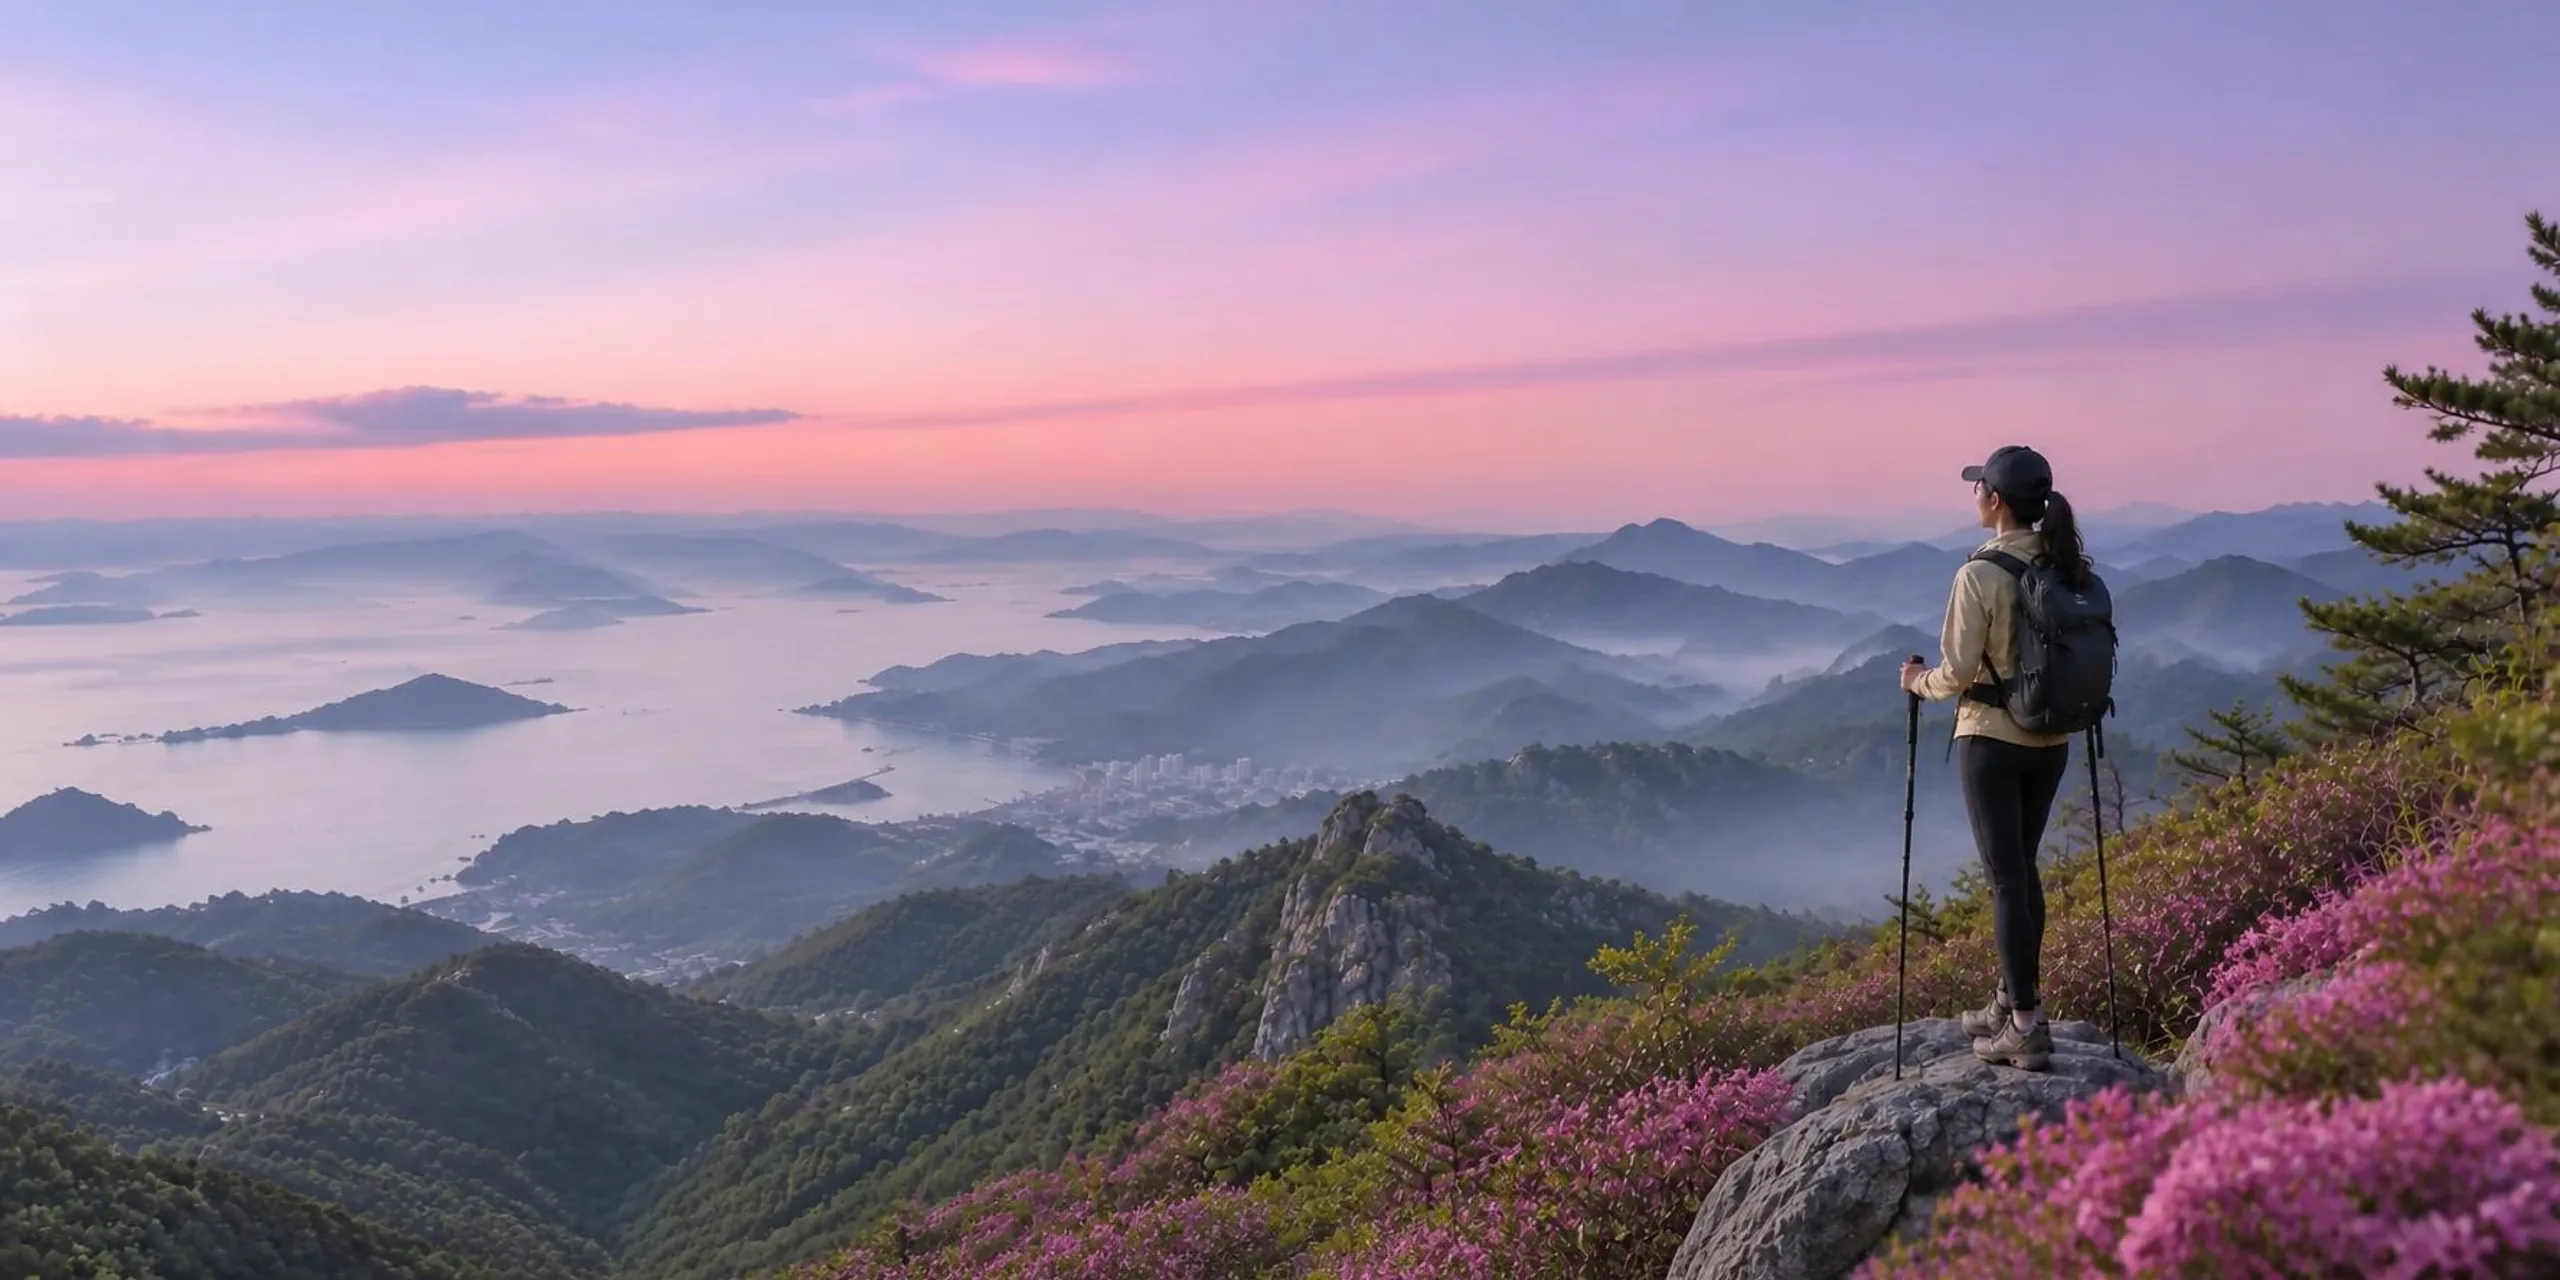
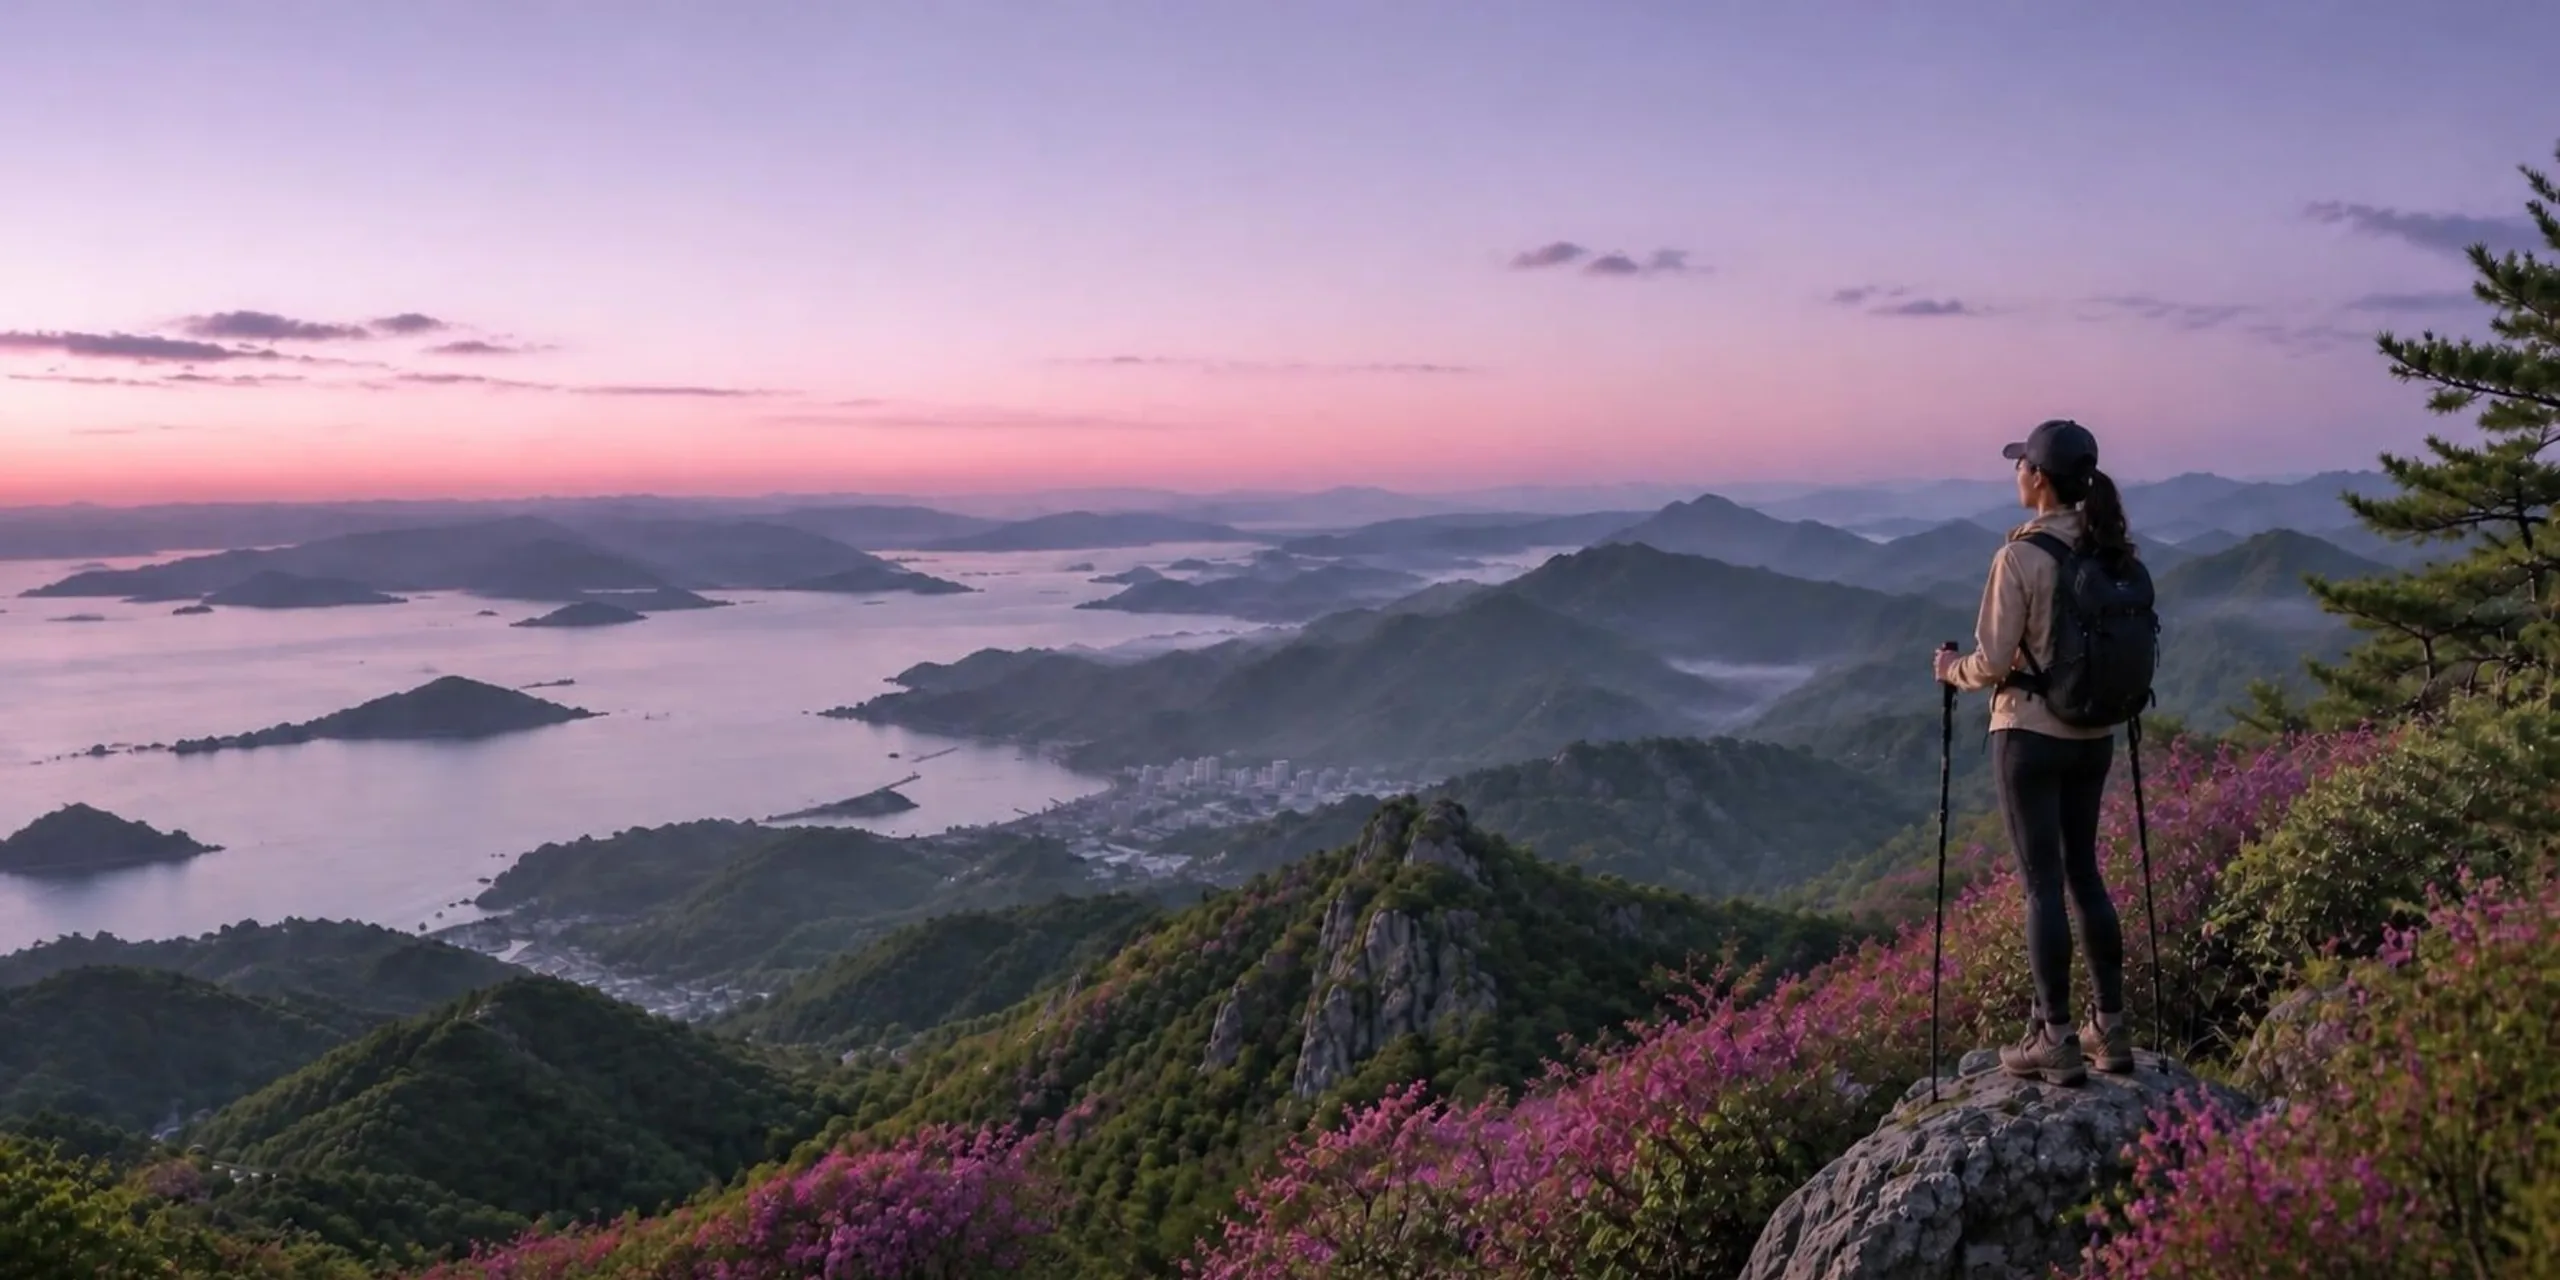
히어로 봄 새벽 v6 적용 (#28)
Claude-Session: https://claude.ai/code/session_01TTPn3ts8fEyWREDupZmwxM

diff --git a/_src.html b/_src.html
@@ -13,7 +13,7 @@
 (function(){var k="";try{var d=new Date(),M=d.getMonth()+1,h=d.getHours();
 var s=M>=3&&M<=5?"spring":M>=6&&M<=8?"summer":M>=9&&M<=11?"autumn":"winter";
 var t=h>=4&&h<7?"dawn":h>=7&&h<17?"day":h>=17&&h<21?"evening":"night";k=s+"-"+t;
-var READY={};/* 검수 재진행 중: 전 조합 원본 히어로 표시 *//* 검수 통과분만 노출, 나머지는 원본 히어로 */
+var READY={"spring-dawn":1};/* 검수 재진행 중: 전 조합 원본 히어로 표시 *//* 검수 통과분만 노출, 나머지는 원본 히어로 */
 window.__heroReady=READY;if(!READY[k])k="";
 var q=/[?&]hero=((?:spring|summer|autumn|winter)-(?:dawn|day|evening|night))(?:&|$)/.exec(location.search);if(q&&READY[q[1]])k=q[1];}catch(e){k="";}
 window.__hero=k;var a=k?"/img/hero/"+k:"/img/hero",b=k?"/img/hero/"+k+"-m.webp":"/img/hero-m.webp";
@@ -333,7 +333,7 @@ footer{background:var(--dark);color:rgba(255,255,255,.5);border-top:1px solid rg
       <img class="bg" id="heroImg" width="2560" height="1280" alt="산 정상 바위에 서서 다도해와 겹겹의 산줄기를 바라보는 등산객" fetchpriority="high" />
     </picture>
     <script>(function(){var k=window.__hero,i=document.getElementById("heroImg"),s=document.getElementById("heroSrc"),w=document.getElementById("bgwrap");
-var C={"spring-dawn":["#bba1c1","#625963"],"spring-day":["#b2d5ee","#7e8071"],"spring-evening":["#d7a16f","#704d2b"],"spring-night":["#11253b","#0e1217"],"summer-dawn":["#dcbba1","#5f5642"],"summer-day":["#75abe1","#3a5f55"],"summer-evening":["#c78665","#594429"],"summer-night":["#0f2951","#0c1826"],"autumn-dawn":["#9482ba","#5c4159"],"autumn-day":["#81b5db","#6b5e5b"],"autumn-evening":["#c69164","#693821"],"autumn-night":["#1b293a","#17151a"],"winter-dawn":["#a8acce","#475986"],"winter-day":["#afcfee","#77879c"],"winter-evening":["#8d7575","#4e3f4f"],"winter-night":["#182742","#1c273d"]};function fb(){s.srcset="/img/hero-m.webp";i.src="/img/hero.webp";w.style.backgroundImage="";}
+var C={"spring-dawn":["#ac97b4","#4c4448"],"spring-day":["#b2d5ee","#7e8071"],"spring-evening":["#d7a16f","#704d2b"],"spring-night":["#11253b","#0e1217"],"summer-dawn":["#dcbba1","#5f5642"],"summer-day":["#75abe1","#3a5f55"],"summer-evening":["#c78665","#594429"],"summer-night":["#0f2951","#0c1826"],"autumn-dawn":["#9482ba","#5c4159"],"autumn-day":["#81b5db","#6b5e5b"],"autumn-evening":["#c69164","#693821"],"autumn-night":["#1b293a","#17151a"],"winter-dawn":["#a8acce","#475986"],"winter-day":["#afcfee","#77879c"],"winter-evening":["#8d7575","#4e3f4f"],"winter-night":["#182742","#1c273d"]};function fb(){s.srcset="/img/hero-m.webp";i.src="/img/hero.webp";w.style.backgroundImage="";}
 if(!k){fb();return;}i.addEventListener("error",function(){if(!i.getAttribute("data-fb")){i.setAttribute("data-fb","1");fb();}});
 if(C[k])w.style.backgroundImage="linear-gradient(180deg,"+C[k][0]+","+C[k][1]+")";
 s.srcset="/img/hero/"+k+"-m.webp";i.src="/img/hero/"+k+".webp";})();</script>

diff --git a/index.html b/index.html
@@ -13,7 +13,7 @@
 (function(){var k="";try{var d=new Date(),M=d.getMonth()+1,h=d.getHours();
 var s=M>=3&&M<=5?"spring":M>=6&&M<=8?"summer":M>=9&&M<=11?"autumn":"winter";
 var t=h>=4&&h<7?"dawn":h>=7&&h<17?"day":h>=17&&h<21?"evening":"night";k=s+"-"+t;
-var READY={};/* 검수 재진행 중: 전 조합 원본 히어로 표시 *//* 검수 통과분만 노출, 나머지는 원본 히어로 */
+var READY={"spring-dawn":1};/* 검수 재진행 중: 전 조합 원본 히어로 표시 *//* 검수 통과분만 노출, 나머지는 원본 히어로 */
 window.__heroReady=READY;if(!READY[k])k="";
 var q=/[?&]hero=((?:spring|summer|autumn|winter)-(?:dawn|day|evening|night))(?:&|$)/.exec(location.search);if(q&&READY[q[1]])k=q[1];}catch(e){k="";}
 window.__hero=k;var a=k?"/img/hero/"+k:"/img/hero",b=k?"/img/hero/"+k+"-m.webp":"/img/hero-m.webp";
@@ -333,7 +333,7 @@ footer{background:var(--dark);color:rgba(255,255,255,.5);border-top:1px solid rg
       <img class="bg" id="heroImg" width="2560" height="1280" alt="산 정상 바위에 서서 다도해와 겹겹의 산줄기를 바라보는 등산객" fetchpriority="high" />
     </picture>
     <script>(function(){var k=window.__hero,i=document.getElementById("heroImg"),s=document.getElementById("heroSrc"),w=document.getElementById("bgwrap");
-var C={"spring-dawn":["#bba1c1","#625963"],"spring-day":["#b2d5ee","#7e8071"],"spring-evening":["#d7a16f","#704d2b"],"spring-night":["#11253b","#0e1217"],"summer-dawn":["#dcbba1","#5f5642"],"summer-day":["#75abe1","#3a5f55"],"summer-evening":["#c78665","#594429"],"summer-night":["#0f2951","#0c1826"],"autumn-dawn":["#9482ba","#5c4159"],"autumn-day":["#81b5db","#6b5e5b"],"autumn-evening":["#c69164","#693821"],"autumn-night":["#1b293a","#17151a"],"winter-dawn":["#a8acce","#475986"],"winter-day":["#afcfee","#77879c"],"winter-evening":["#8d7575","#4e3f4f"],"winter-night":["#182742","#1c273d"]};function fb(){s.srcset="/img/hero-m.webp";i.src="/img/hero.webp";w.style.backgroundImage="";}
+var C={"spring-dawn":["#ac97b4","#4c4448"],"spring-day":["#b2d5ee","#7e8071"],"spring-evening":["#d7a16f","#704d2b"],"spring-night":["#11253b","#0e1217"],"summer-dawn":["#dcbba1","#5f5642"],"summer-day":["#75abe1","#3a5f55"],"summer-evening":["#c78665","#594429"],"summer-night":["#0f2951","#0c1826"],"autumn-dawn":["#9482ba","#5c4159"],"autumn-day":["#81b5db","#6b5e5b"],"autumn-evening":["#c69164","#693821"],"autumn-night":["#1b293a","#17151a"],"winter-dawn":["#a8acce","#475986"],"winter-day":["#afcfee","#77879c"],"winter-evening":["#8d7575","#4e3f4f"],"winter-night":["#182742","#1c273d"]};function fb(){s.srcset="/img/hero-m.webp";i.src="/img/hero.webp";w.style.backgroundImage="";}
 if(!k){fb();return;}i.addEventListener("error",function(){if(!i.getAttribute("data-fb")){i.setAttribute("data-fb","1");fb();}});
 if(C[k])w.style.backgroundImage="linear-gradient(180deg,"+C[k][0]+","+C[k][1]+")";
 s.srcset="/img/hero/"+k+"-m.webp";i.src="/img/hero/"+k+".webp";})();</script>
